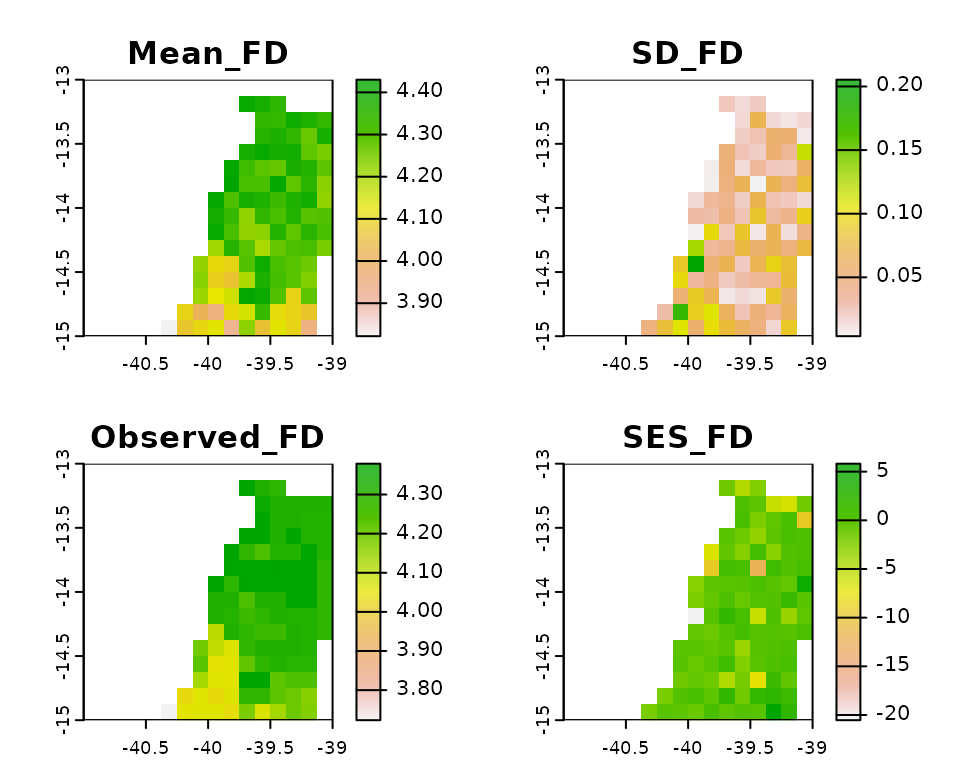
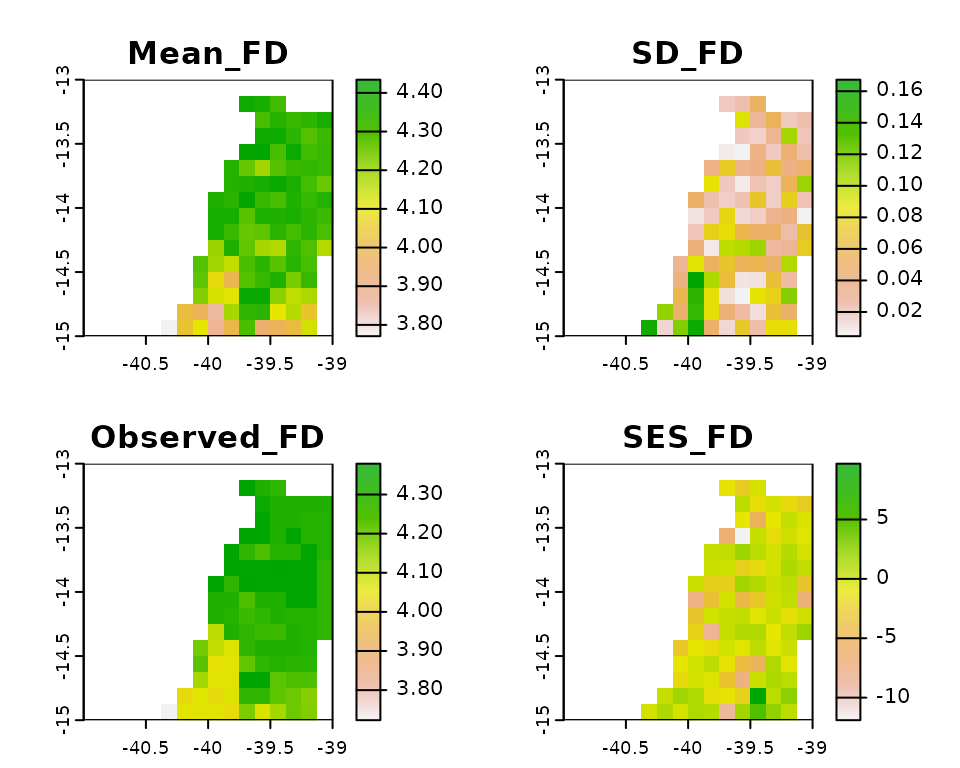
Deploying to gh-pages from @ flaviomoc/divraster@9211746e582303348a4eb0cd3192f8646d8b3d19 🚀

diff --git a/index.html b/index.html
@@ -80,28 +80,31 @@
 </div>
 <!-- badges: start -->
 
-<p>divraster calculates diversity patterns from raster data for taxonomic, functional, and phylogenetic dimensions. Spatial and temporal beta diversity can be partitioned into replacement and richness differences components. divraster also calculates standardize effect size for functional and phylogenetic alpha diversity and the average traits</p>
+<p>Alpha and beta calculations using rasters for taxonomic (TD), functional (FD), and phylogenetic (PD) dimensions. Spatial and temporal beta diversity can be partitioned into replacement and richness difference components. Functions to calculate standardized effect size for functional and phylogenetic alpha diversity and the average traits are available.</p>
 <div class="section level2">
 <h2 id="installation">Installation<a class="anchor" aria-label="anchor" href="#installation"></a>
 </h2>
-<p>You can install the development version of divraster from <a href="https://github.com/flaviomoc/divraster" class="external-link">divraster repository</a> in Github with:</p>
+<p>To install the package, run the following code:</p>
 <div class="sourceCode" id="cb1"><pre class="downlit sourceCode r">
-<code class="sourceCode R"><span><span class="co"># install.packages("devtools")</span></span>
+<code class="sourceCode R"><span><span class="fu"><a href="https://rdrr.io/r/utils/install.packages.html" class="external-link">install.packages</a></span><span class="op">(</span><span class="st">"divraster"</span><span class="op">)</span></span></code></pre></div>
+<p>The development version of <code>divraster</code> can be installed from Github:</p>
+<div class="sourceCode" id="cb2"><pre class="downlit sourceCode r">
+<code class="sourceCode R"><span><span class="co"># install.packages(devtools)</span></span>
 <span><span class="fu">devtools</span><span class="fu">::</span><span class="fu">install_github</span><span class="op">(</span><span class="st">"flaviomoc/divraster"</span>, build_vignettes <span class="op">=</span> <span class="cn">TRUE</span><span class="op">)</span></span></code></pre></div>
 </div>
 <div class="section level2">
 <h2 id="load-data">Load data<a class="anchor" aria-label="anchor" href="#load-data"></a>
 </h2>
-<p>You can use a <code>divraster</code> function to load the data with:</p>
-<div class="sourceCode" id="cb2"><pre class="downlit sourceCode r">
+<p>You can use a <code>divraster</code> function to load the data:</p>
+<div class="sourceCode" id="cb3"><pre class="downlit sourceCode r">
 <code class="sourceCode R"><span><span class="kw"><a href="https://rdrr.io/r/base/library.html" class="external-link">library</a></span><span class="op">(</span><span class="va"><a href="https://github.com/flaviomoc/divraster" class="external-link">divraster</a></span><span class="op">)</span></span>
 <span><span class="va">data</span> <span class="op">&lt;-</span> <span class="fu"><a href="reference/load.data.html">load.data</a></span><span class="op">(</span><span class="op">)</span></span></code></pre></div>
 </div>
 <div class="section level2">
 <h2 id="calculating-alpha-diversity">Calculating alpha diversity<a class="anchor" aria-label="anchor" href="#calculating-alpha-diversity"></a>
 </h2>
-<p>To calculate alpha diversity for taxonomic, functional, and phylogenetic dimensions we need the following objects: multilayer SpatRaster, data.frame, and phylo.</p>
-<div class="sourceCode" id="cb3"><pre class="downlit sourceCode r">
+<p>To calculate alpha diversity for TD, FD, and PD we need the following objects: a multilayer SpatRaster, data.frame, and phylo.</p>
+<div class="sourceCode" id="cb4"><pre class="downlit sourceCode r">
 <code class="sourceCode R"><span><span class="co"># TD</span></span>
 <span><span class="fu">terra</span><span class="fu">::</span><span class="fu"><a href="https://rdrr.io/pkg/terra/man/plot.html" class="external-link">plot</a></span><span class="op">(</span><span class="fu"><a href="reference/spat.alpha.html">spat.alpha</a></span><span class="op">(</span><span class="va">data</span><span class="op">$</span><span class="va">ref</span><span class="op">)</span><span class="op">)</span></span>
 <span></span>
@@ -114,8 +117,8 @@
 <div class="section level2">
 <h2 id="calculating-temporal-beta-diversity">Calculating temporal beta diversity<a class="anchor" aria-label="anchor" href="#calculating-temporal-beta-diversity"></a>
 </h2>
-<p>To calculate temporal beta diversity and its components (i.e. replacement and richness differences) for taxonomic, functional, and phylogenetic dimensions we need the following objects: 2 multilayer SpatRaster, data.frame, and phylo.</p>
-<div class="sourceCode" id="cb4"><pre class="downlit sourceCode r">
+<p>To calculate temporal beta diversity and its components (i.e. replacement and richness differences) for TD, FD, and PD we need the following objects: two multilayer SpatRaster (e.g. reference and future climate scenarios), data.frame, and phylo.</p>
+<div class="sourceCode" id="cb5"><pre class="downlit sourceCode r">
 <code class="sourceCode R"><span><span class="co"># TD</span></span>
 <span><span class="fu">terra</span><span class="fu">::</span><span class="fu"><a href="https://rdrr.io/pkg/terra/man/plot.html" class="external-link">plot</a></span><span class="op">(</span><span class="fu"><a href="reference/temp.beta.html">temp.beta</a></span><span class="op">(</span><span class="va">data</span><span class="op">$</span><span class="va">ref</span>, <span class="va">data</span><span class="op">$</span><span class="va">fut</span><span class="op">)</span><span class="op">)</span></span>
 <span></span>
@@ -129,7 +132,7 @@
 <h2 id="other-examples">Other examples<a class="anchor" aria-label="anchor" href="#other-examples"></a>
 </h2>
 <p>A vignette with other examples can be found loading:</p>
-<div class="sourceCode" id="cb5"><pre class="downlit sourceCode r">
+<div class="sourceCode" id="cb6"><pre class="downlit sourceCode r">
 <code class="sourceCode R"><span><span class="fu"><a href="https://rdrr.io/r/utils/browseVignettes.html" class="external-link">browseVignettes</a></span><span class="op">(</span><span class="st">"divraster"</span><span class="op">)</span></span></code></pre></div>
 </div>
 </div>

diff --git a/articles/DMSD-vignette.html b/articles/DMSD-vignette.html
@@ -248,7 +248,7 @@ PD alpha diversity.</p>
 <p><img src="DMSD-vignette_files/figure-html/unnamed-chunk-5-1.png" width="480" style="display: block; margin: auto;"></p>
 </div>
 <div class="section level2">
-<h2 id="standardize-effect-size">Standardize Effect Size<a class="anchor" aria-label="anchor" href="#standardize-effect-size"></a>
+<h2 id="standardized-effect-size-ses">Standardized Effect Size (SES)<a class="anchor" aria-label="anchor" href="#standardized-effect-size-ses"></a>
 </h2>
 <div class="sourceCode" id="cb7"><pre class="downlit sourceCode r">
 <code class="sourceCode R"><span><span class="co"># Functional</span></span>
@@ -261,8 +261,8 @@ PD alpha diversity.</p>
 <span><span class="co">#&gt; coord. ref. : lon/lat WGS 84 (EPSG:4326) </span></span>
 <span><span class="co">#&gt; source(s)   : memory</span></span>
 <span><span class="co">#&gt; names       :  Mean_FD,       SD_FD, Observed_FD,     SES_FD </span></span>
-<span><span class="co">#&gt; min values  : 3.821754, 0.003744266,    3.723151, -20.533224 </span></span>
-<span><span class="co">#&gt; max values  : 4.430112, 0.205337429,    4.378846,   5.818051</span></span>
+<span><span class="co">#&gt; min values  : 3.770778, 0.004647072,    3.723151, -11.899939 </span></span>
+<span><span class="co">#&gt; max values  : 4.434146, 0.167311427,    4.378846,   9.700024</span></span>
 <span><span class="fu">terra</span><span class="fu">::</span><span class="fu"><a href="https://rdrr.io/pkg/terra/man/plot.html" class="external-link">plot</a></span><span class="op">(</span><span class="va">ses.fd</span>, main <span class="op">=</span> <span class="fu"><a href="https://rdrr.io/r/base/names.html" class="external-link">names</a></span><span class="op">(</span><span class="va">ses.fd</span><span class="op">)</span><span class="op">)</span></span></code></pre></div>
 <p><img src="DMSD-vignette_files/figure-html/unnamed-chunk-6-1.png" width="480" style="display: block; margin: auto;"></p>
 <div class="sourceCode" id="cb8"><pre class="downlit sourceCode r">
@@ -276,9 +276,9 @@ PD alpha diversity.</p>
 <span><span class="co">#&gt; extent      : -41, -39, -15, -13  (xmin, xmax, ymin, ymax)</span></span>
 <span><span class="co">#&gt; coord. ref. : lon/lat WGS 84 (EPSG:4326) </span></span>
 <span><span class="co">#&gt; source(s)   : memory</span></span>
-<span><span class="co">#&gt; names       :  Mean_PD,      SD_PD, Observed_PD,    SES_PD </span></span>
-<span><span class="co">#&gt; min values  : 1660.298,  0.4455307,    1623.451, -22.37598 </span></span>
-<span><span class="co">#&gt; max values  : 1872.912, 81.0086773,    1880.676,  18.18074</span></span>
+<span><span class="co">#&gt; names       :  Mean_PD,     SD_PD, Observed_PD,    SES_PD </span></span>
+<span><span class="co">#&gt; min values  : 1638.646,  1.630924,    1623.451, -7.343682 </span></span>
+<span><span class="co">#&gt; max values  : 1874.456, 62.828678,    1880.676,  8.159818</span></span>
 <span><span class="fu">terra</span><span class="fu">::</span><span class="fu"><a href="https://rdrr.io/pkg/terra/man/plot.html" class="external-link">plot</a></span><span class="op">(</span><span class="va">ses.pd</span>, main <span class="op">=</span> <span class="fu"><a href="https://rdrr.io/r/base/names.html" class="external-link">names</a></span><span class="op">(</span><span class="va">ses.pd</span><span class="op">)</span><span class="op">)</span></span></code></pre></div>
 <p><img src="DMSD-vignette_files/figure-html/unnamed-chunk-6-2.png" width="480" style="display: block; margin: auto;"></p>
 </div>

diff --git a/reference/spat.rand.html b/reference/spat.rand.html
@@ -136,9 +136,9 @@ a calling function.</p></dd>
 <span class="r-out co"><span class="r-pr">#&gt;</span> extent      : 0, 1, 0, 1  (xmin, xmax, ymin, ymax)</span>
 <span class="r-out co"><span class="r-pr">#&gt;</span> coord. ref. : lon/lat WGS 84 (EPSG:4326) </span>
 <span class="r-out co"><span class="r-pr">#&gt;</span> source(s)   : memory</span>
-<span class="r-out co"><span class="r-pr">#&gt;</span> names       :  Mean_PD,      SD_PD, Observed_PD,    SES_PD </span>
-<span class="r-out co"><span class="r-pr">#&gt;</span> min values  : 3.785554, 0.08970618,    3.359948, -7.463172 </span>
-<span class="r-out co"><span class="r-pr">#&gt;</span> max values  : 9.883807, 1.02776091,   10.571964,  4.384678 </span>
+<span class="r-out co"><span class="r-pr">#&gt;</span> names       :   Mean_PD,      SD_PD, Observed_PD,    SES_PD </span>
+<span class="r-out co"><span class="r-pr">#&gt;</span> min values  :  3.580446, 0.02573013,    3.359948, -5.563318 </span>
+<span class="r-out co"><span class="r-pr">#&gt;</span> max values  : 10.123617, 1.09822786,   10.571964,  8.963691 </span>
 <span class="r-in"><span><span class="fu">spat.rand</span><span class="op">(</span><span class="va">x</span>, <span class="va">traits</span>, <span class="fl">3</span>, <span class="st">"site"</span><span class="op">)</span></span></span>
 <span class="r-out co"><span class="r-pr">#&gt;</span> class       : SpatRaster </span>
 <span class="r-out co"><span class="r-pr">#&gt;</span> dimensions  : 8, 8, 4  (nrow, ncol, nlyr)</span>
@@ -146,9 +146,9 @@ a calling function.</p></dd>
 <span class="r-out co"><span class="r-pr">#&gt;</span> extent      : 0, 1, 0, 1  (xmin, xmax, ymin, ymax)</span>
 <span class="r-out co"><span class="r-pr">#&gt;</span> coord. ref. : lon/lat WGS 84 (EPSG:4326) </span>
 <span class="r-out co"><span class="r-pr">#&gt;</span> source(s)   : memory</span>
-<span class="r-out co"><span class="r-pr">#&gt;</span> names       :   Mean_FD,      SD_FD, Observed_FD,    SES_FD </span>
-<span class="r-out co"><span class="r-pr">#&gt;</span> min values  : 0.3391522, 0.01618121,   0.2374052, -6.248335 </span>
-<span class="r-out co"><span class="r-pr">#&gt;</span> max values  : 1.1987818, 0.23160462,   1.2493508, 17.206004 </span>
+<span class="r-out co"><span class="r-pr">#&gt;</span> names       :   Mean_FD,       SD_FD, Observed_FD,    SES_FD </span>
+<span class="r-out co"><span class="r-pr">#&gt;</span> min values  : 0.4657693, 0.008247879,   0.2374052, -10.39437 </span>
+<span class="r-out co"><span class="r-pr">#&gt;</span> max values  : 1.2154920, 0.187447944,   1.2493508,  18.83149 </span>
 <span class="r-in"><span></span></span>
 </code></pre></div>
     </div>
